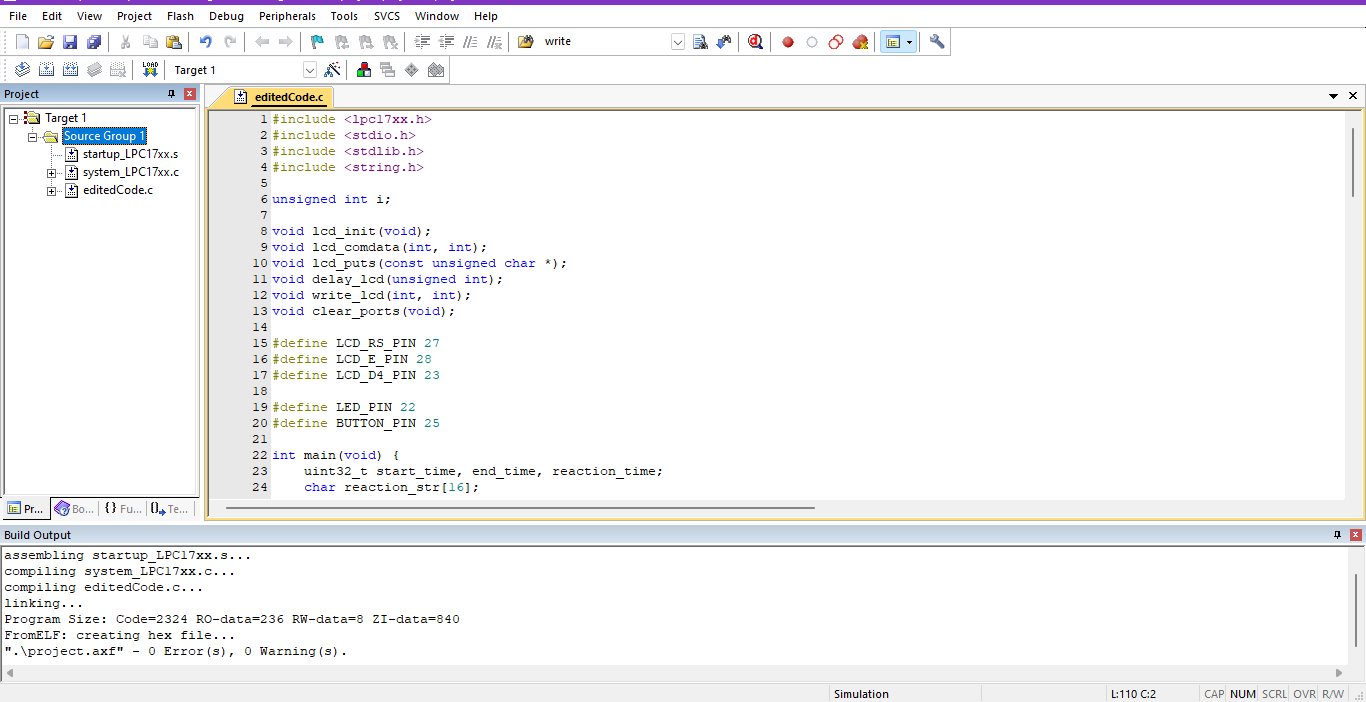
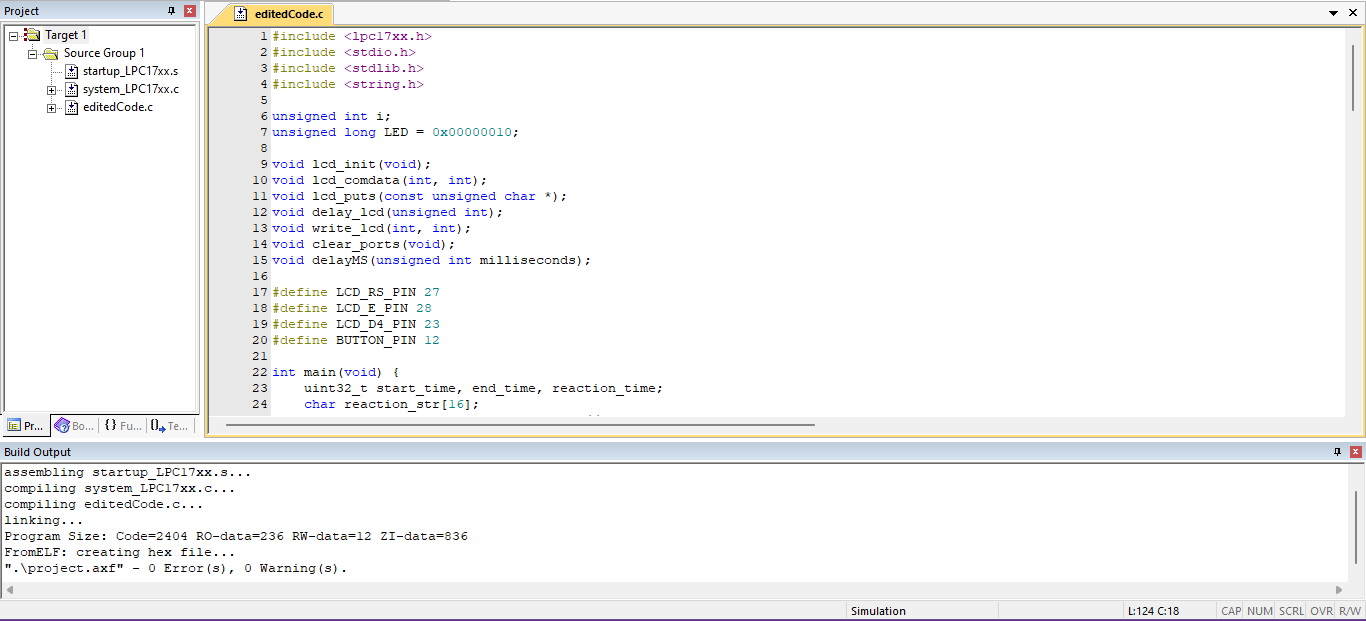
edited code

Changed region(s): [[0.0, 0.0, 1.0, 1.0]]

diff --git a/main.c b/main.c
@@ -4,6 +4,7 @@
 #include <string.h>
 
 unsigned int i;
+unsigned long LED = 0x00000010;
 
 void lcd_init(void);
 void lcd_comdata(int, int);
@@ -15,33 +16,34 @@ void clear_ports(void);
 #define LCD_RS_PIN 27
 #define LCD_E_PIN 28
 #define LCD_D4_PIN 23
-
-#define LED_PIN 22
-#define BUTTON_PIN 23 //SW3
+#define BUTTON_PIN 12
 
 int main(void) {
     uint32_t start_time, end_time, reaction_time;
     char reaction_str[16];
-    LPC_GPIO1->FIODIR |= (1 << LED_PIN);
-    LPC_GPIO2->FIOPIN = (1 << 10);
+    LPC_PINCON->PINSEL0 &= 0xFF0000FF; //Configure Port0 PINS P0.4-P0.11 as GPIO function
+    LPC_GPIO0->FIODIR |= 0x00000FF0; //Configure P0.4-P0.11 as output port
+    LPC_GPIO2->FIODIR &= ~(1 << BUTTON_PIN);
     lcd_init();
 
     while (1) {
         uint32_t delay = rand() % 5 + 1; // 1-5 seconds
-        LPC_GPIO1->FIOSET |= (1 << LED_PIN); // Turn on LED
+        LPC_GPIO0->FIOSET |= (1 << LED); // Turn on LED
         for (i = 0; i < delay * 1000000; i++);
-        LPC_GPIO1->FIOCLR |= (1 << LED_PIN); // Turn off LED
+        LPC_GPIO0->FIOCLR |= (1 << LED); // Turn off LED
 
-        while (!(LPC_GPIO1->FIOPIN & (1 << BUTTON_PIN))); // Wait for button press
+        while (LPC_GPIO2->FIOPIN & (1 << BUTTON_PIN)); //button press
+        delayMS(10000); //timer enable, delay, disable
         start_time = LPC_TIM0->TC; // Start time
-        while (LPC_GPIO1->FIOPIN & (1 << BUTTON_PIN)); // Wait for button release
+        while (!(LPC_GPIO2->FIOPIN & (1 << BUTTON_PIN))); //button release
+        delayMS(10000); //timer enable, delay, disable
         end_time = LPC_TIM0->TC; // End time
         reaction_time = end_time - start_time; // Calculate reaction time
 
         sprintf(reaction_str, "Reaction time: %dms", reaction_time / 1000); // Convert reaction time to string
         lcd_comdata(0x80, 0); // Set cursor to first line
         delay_lcd(800);
-        lcd_puts((const unsigned char *)"                ");// Clear first line
+        lcd_comdata(0x01,0);// Clear first line
         lcd_comdata(0x80, 0); // Set cursor to first line
         delay_lcd(800);
         lcd_puts((const unsigned char *)reaction_str); // Print reaction time
@@ -60,6 +62,9 @@ void lcd_init(void) {
     delay_lcd(30000);
     lcd_comdata(0x0C, 0);//display on cursor off
     delay_lcd(800);
+    lcd_comdata(0x06, 0);//entry mode set
+    delay_lcd(800);
+    lcd_comdata(0x01, 0);//clear display
 }
 
 void lcd_comdata(int value, int control) {
@@ -112,5 +117,3 @@ void clear_ports(void)
     LPC_GPIO0->FIOCLR = 1<<28; //Clearing Enable line
     return;
 }
-
-
